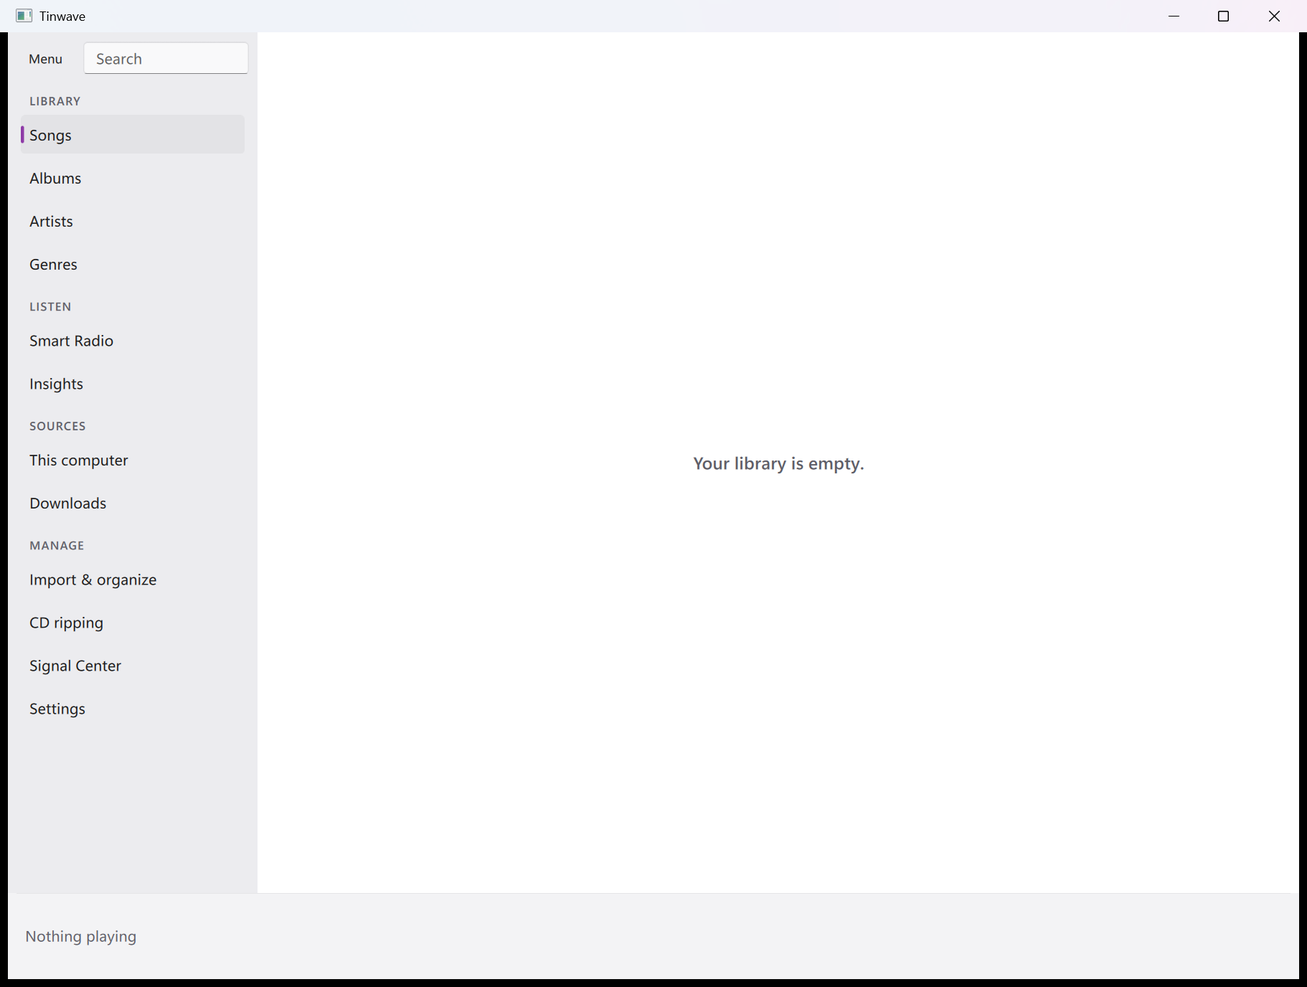
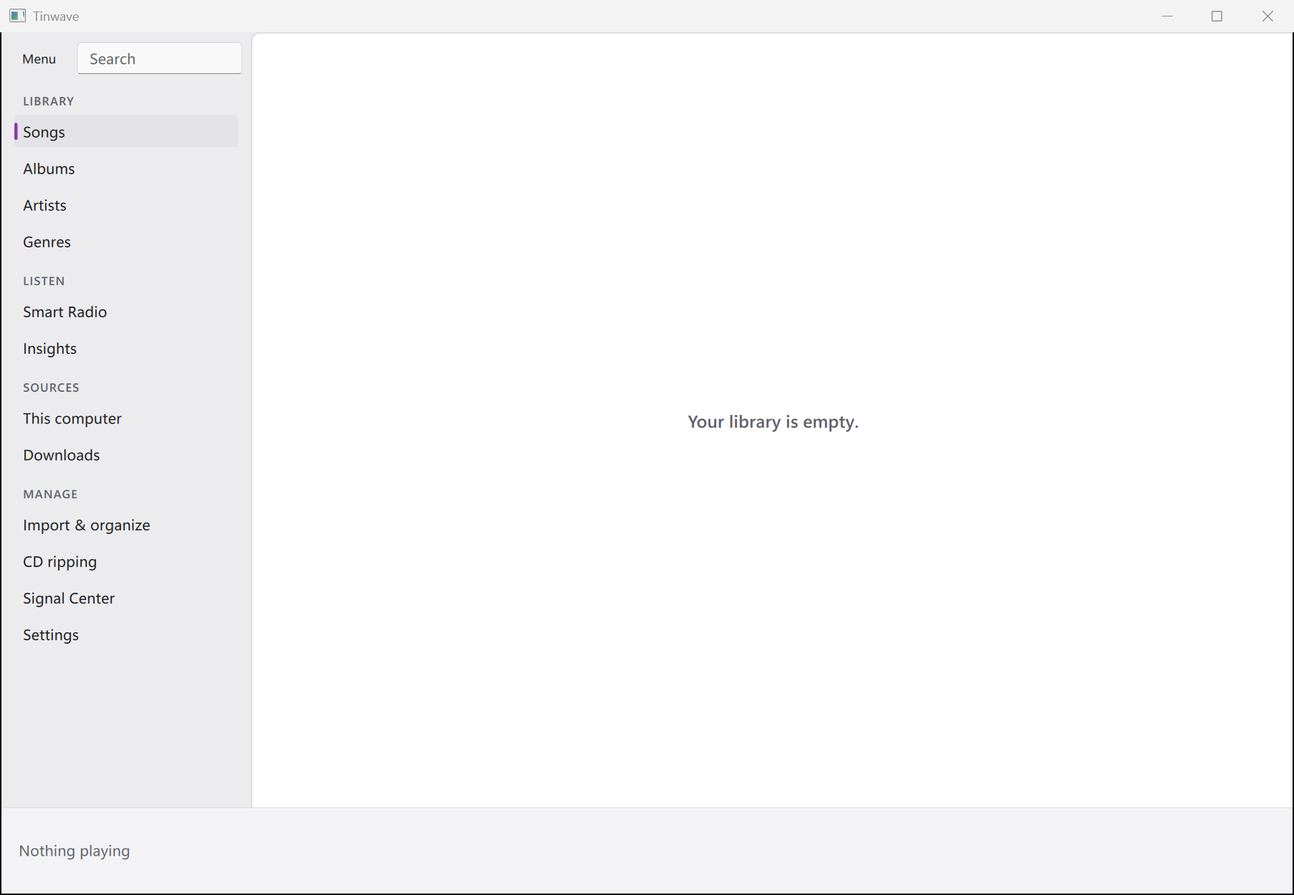
T-0035 done (lead fix 481582b, merge 11bc7e1); ADR 0007 hexes superseded; screenshots refreshed; T-0034 round 2; P-0137, P-0138; T-0047

Changed region(s): [[0.0, 0.0, 1.0, 1.0], [0.5277, 0.4571, 0.6829, 0.4876], [0.9313, 0.0, 0.9623, 0.0305]]

diff --git a/work/reports/T-0034/review-1.md b/work/reports/T-0034/review-1.md
@@ -1,0 +1,47 @@
+REVIEW T-0034 (round 1)
+verdict: CHANGES_REQUESTED
+checks (run by reviewer): fmt pass; clippy pass (`--workspace --all-targets -D warnings`); tests: first full `cargo nextest run --workspace` gave 469 passed / 1 FAILED (`controller_thread::concurrent_callers_lose_nothing_and_the_engine_stays_consistent`, controller_thread.rs:322, `left: 0, right: 1`, 21.9 s), then 4 more full runs gave 470/470. The controller_thread, controller_signals and controller_sessions binaries passed 8 of 8 runs on their own. The stress test alone passed 168 of 168 (up to 32 processes at once). deny pass (advisories, bans, licenses, sources ok).
+
+acceptance criteria:
+- [ ] Failed open ⇒ no PlayStarted; normal play ⇒ exactly one PlayStarted, when heard — problem: covered for open failures and normal plays by `a_queue_of_only_a_failing_track_leaves_no_outcome_either`, `a_failed_track_is_neither_completed_nor_skipped`, `play_started_carries_origin_input_recording_source_and_start_position`, `a_track_replaced_before_its_first_audio_is_not_a_play`. But a track that opens and then decodes zero frames still emits SessionStarted + PlayStarted + Completed (blocking finding 2).
+- [x] Initial StreamInfo observable without a device switch — verified by: `the_engine_reports_how_each_stream_was_opened_the_first_one_too` (controller_signals.rs, `OutputOpened{None, initial}` before any switch), `the_stream_the_engine_started_with_is_the_starting_mode_not_a_toggle`, and the Harness check in tests/common/mod.rs:202.
+- [ ] Pairing, rt_alloc, controller suites, concurrent stress green; fmt, clippy, tests, deny — problem: the concurrent stress test failed in 1 of my 5 full-workspace runs (blocking finding 1). pairing, rt_alloc, output_rt_alloc and controller_rt_alloc are green and unchanged.
+- [x] P-0128 `initial_repeat` seeds repeat and reported_repeat — verified by: mapper.rs:163-164 and `a_restored_repeat_mode_is_the_starting_state_not_a_change`.
+- [x] Deferred RepeatModeChanged documented — verified by: mapper.rs:347-353 and signal-catalog.md §8 (session-start time, recording current then).
+- [x] ManuallyDrop nit — verified by: controller_thread.rs:358-360, now a plain destructure.
+
+blocking findings:
+1. crates/tinwave-playback/tests/controller_thread.rs:287-298 and :109-123 — the stress test is flaky, and its wait loop hides the cause.
+   - What happens: `hear()` renders exactly 4,800 "real" frames and then stops rendering. The loop then waits up to 30,000 × 200 µs for a PlayStarted. It never asserts that one arrived; it just falls through to `assert_eq!(session_starts, 1)`.
+   - Observed: 21.9 s run, `session_starts == 0`. The loop timed out, so no PlayStarted was ever emitted, before or after `hear()`.
+   - Why it matters: with this ticket the first PositionMark decides whether a heard play gets PlayStarted, Skipped and Completed at all. "A heard play never got its mark" therefore has to be ruled out, not retried away. I could not reproduce it alone (168/168), so the root cause is open. It may be a test-timing problem or a real case where marks stop.
+   - Fix: (a) make the wait render and poll until PlayStarted is seen, and panic on timeout with `status()`, `position()`, `command_pending()` and `sink_stats()` in the message; (b) rerun the full workspace until it reproduces and find the cause; (c) apply the same "render until seen" pattern in `dropping_the_handle_ends_the_session`, which uses the same fixed-count `hear()`.
+2. crates/tinwave-playback/src/controller/mapper.rs:482-491 — the new "Finished ⇒ heard" path has no guard.
+   - Mechanism: a file that opens but decodes no audio still ends in `TrackLeft{Finished}` with frame == start frame. Two ways: `next_chunk` returns `Ok(false)` at the first packet (an `UnexpectedEof` — truncated download or rip — or an empty data chunk, reader.rs:215-217); or every packet is a `DecodeError`, so all are skipped (reader.rs:227-229) and decoder.rs:390 calls `finish_item`, not failed.
+   - Effect: the mapper emits SessionStarted + PlayStarted + Completed for a track nobody heard — the case the ticket set out to remove — and the Completed teaches taste a false positive.
+   - Fix: treat an unheard `Finished` as a play only if audio actually advanced. Have the mapper record the start frame of the current stream (TrackStarted frame, updated on `Seeked.to_frame`) and require leave frame > that frame. Add a test with a header-only or zero-frame WAV that expects no signals.
+3. Hard-rule check (CLAUDE.md, "every user interaction that changes playback … MUST emit a signal") — mapper.rs:564-566 with `send` at :694, and the test `a_play_paused_before_it_is_heard_starts_when_it_is` (asserts empty after Pause(Mouse)/Resume(Mouse)).
+   - What is lost: for an unheard play with no session open, Pause, Resume and Seek (and Volume) are now dropped. On main they were recorded, because TrackStarted opened the session.
+   - Concrete case: at launch the shell restores the last track paused at its saved position. The listener drags the seek bar, then presses Play on a media key. Seek and Resume both emit nothing; the PlayStarted that follows carries the load's input (e.g. Auto), not MediaKey. This is the most common way a desktop session starts, it is a regression, and the lead's acceptance covered only Replaced/Stopped outcomes.
+   - Fix: when Paused/Resumed/Seeked/VolumeChanged arrives with a user `cx.input` for an unheard play and no session is open, call `ensure_session(at, pending.origin)` first, then emit as before. This does not bring back sessions made only of failed tracks: the decoder opens and fills while paused, so an open failure is reported as `TrackLeft{Failed}` before the user can resume. Update that test and the "can precede its PlayStarted" docs (mod.rs:62-64, catalog §8).
+   - Full list of interactions that now emit no signal: (i) Select/Next on a track that fails before audio — ticket mandates, not blocking; (ii) Next/Select/Previous replacing a track never heard or within its first ~100 ms — lead accepted (P-0136), navigation, not blocking; (iii) Stop of an unheard play — already silent on main before the last 3 %, not new; (iv) Pause/Resume/Seek/Volume of an unheard play outside a session — new, blocking.
+
+design check: n/a (no UI)
+
+non-blocking findings:
+- crates/tinwave-playback/src/controller/sink.rs:13-16 — docs say "only the newest [mark] is ever useful", and overflow removes the oldest mark. The mapper now relies on the first mark of each track: if coalescing ever dropped a track's only mark before a Replaced, that heard play's PlayStarted and Skipped would vanish. Unreachable today (the controller drains after every `engine.poll`). Update the docs, or never coalesce away a mark whose item differs from the next mark's.
+- crates/tinwave-playback/src/engine.rs:503-521 — a gapless Continuation does not reset `grid_base`/`last_grid`, so an auto-advanced track's first mark (and its PlayStarted) can come 0–100 ms into it, not after 100 ms as the catalog row, mod.rs:56-57 and mapper.rs:436 say. Fix the wording ("the first position mark that names it").
+- crates/tinwave-playback/src/controller/mapper.rs:426-432 — a Previous to a track that then fails opens a session with `tracks = 0` (SessionStarted + PreviousPressed only), contradicting mod.rs:72-73 and catalog §8 "a track that fails to open does not open one". Document the exception or defer the session.
+- crates/tinwave-playback/tests/controller_random.rs:166-172 — the pairing walk never asserts that any PlayStarted happened, and does not catch a second PlayStarted before an outcome. Add `assert!(plays > 0)` and "no PlayStarted while a play is open without an outcome".
+
+proposals:
+- P: Assert "every heard play gets exactly one PlayStarted" in the random walk (render-count based) | why: the first mark is now load-bearing for all T0 play signals | size: S
+
+notes for lead:
+- Verified intact: T-0024 guarantees (non-joining close test still detects a joining teardown; SessionEnded on drop still covered; 29:59/30:00 tests kept and extended; preferences still reported after the next SessionStarted, assertions not weakened; `initial_repeat` silent). `OutputOpened` is emitted on the control thread from `Engine::start` into the pre-allocated BoundedSink, not on the audio callback; rt_alloc binaries green. No consumers of `initial_mode` or `EventKind` outside the crate.
+- Root cause of finding 1 is unknown. Have the builder reproduce it before merge rather than just hardening the wait.
+
+---
+Lead (2026-11-02): all three blocking findings stand; fixes as the reviewer proposes (finding 3: open the session on a
+user Pause/Resume/Seek/Volume of an unheard play). Round 2 also takes the four non-blocking items and the proposal
+(P-0137 → merged into T-0034 round 2). Finding 1 needs a root cause, not only a hardened wait.

diff --git a/work/BOARD.md b/work/BOARD.md
@@ -22,21 +22,23 @@ _Maintained by the lead. Last updated: 2026-11-02._
 ## In progress
 | Ticket | Owner | Branch / worktree |
 |---|---|---|
+| [T-0034](tickets/T-0034-playstarted-when-heard.md) PlayStarted when heard; initial StreamInfo; initial_repeat | tw-builder r2 — CHANGES_REQUESTED: stress flake root cause, zero-frame Finished, unheard pause/seek outside a session | `t/T-0034-playstarted-when-heard` · `D:\dev\Tinwave-worktrees\T-0034-playstarted-when-heard` |
+| [T-0047](tickets/T-0047-storage-test-time-budget.md) storage_growth speed check robust to machine load | tw-builder r1 | `t/T-0047-storage-test-time-budget` · `D:\dev\Tinwave-worktrees\T-0047-storage-test-time-budget` |
 | [T-0044](tickets/T-0044-artwork-image-provider.md) Artwork image provider: T-0041 pattern, RAII UI owner (P0) | tw-builder r1 | `t/T-0044-artwork-image-provider` · `D:\dev\Tinwave-worktrees\T-0044-artwork-image-provider` |
 
 Worktrees are made by the lead with `git worktree add` under `D:\dev\Tinwave-worktrees\` (the Agent tool's built-in
 worktree isolation fails on this machine: the `^{commit}` ref loses its braces).
 
 ## In review
-| Ticket | Reviewer | Branch / worktree |
-|---|---|---|
-| [T-0035](tickets/T-0035-design-token-fixes.md) Design-system §3 token fixes + T-0040 shell tokens | tw-reviewer r2 (build-2: no hover over selected, checkAccents, window clamp) | `t/T-0035-design-token-fixes` @ 4683dd8 · `D:\dev\Tinwave-worktrees\T-0035-design-token-fixes` |
-| [T-0034](tickets/T-0034-playstarted-when-heard.md) PlayStarted when heard; initial StreamInfo; initial_repeat | tw-reviewer r1 (build-1: heard-play sessions, OutputOpened) | `t/T-0034-playstarted-when-heard` @ 8255b43 · `D:\dev\Tinwave-worktrees\T-0034-playstarted-when-heard` |
+_none_
 
 ## Ready (dispatch order)
 | Ticket | Type | Size | Scope | Note |
 |---|---|---|---|---|
-| [T-0043](tickets/T-0043-icon-pipeline.md) Icon pipeline: Lucide SVGs, TwIcon, capture helper | feature | M | desktop qml/Tw, icons, tools, build.rs, Sidebar.qml | after T-0035 (Sidebar.qml) and T-0044 (build.rs) |
+| [T-0042](tickets/T-0042-windows-packaging-notices.md) Windows packaging + Qt THIRD-PARTY-NOTICES | feature | M | desktop packaging/ | next free slot |
+| [T-0046](tickets/T-0046-canvas-token-sync.md) Sync canvas token sheets with §3.1 (P2) | chore | S | docs/design/canvas | free |
+| [T-0045](tickets/T-0045-contrast-selfcheck-test.md) Theme.selfCheck as a committed test (P2) | feature | S | desktop tests/ | tests/ overlaps T-0044 → after it |
+| [T-0043](tickets/T-0043-icon-pipeline.md) Icon pipeline: Lucide SVGs, TwIcon, capture helper | feature | M | desktop qml/Tw, icons, tools, build.rs, Sidebar.qml | after T-0044 (build.rs) |
 | [T-0036](tickets/T-0036-windows-platform-bridge.md) Windows platform bridge (motion, contrast, Mica, dark menus) | feature | M | desktop src/platform | wiring touches src/app → after T-0044 |
 | [T-0042](tickets/T-0042-windows-packaging-notices.md) Windows packaging + Qt THIRD-PARTY-NOTICES | feature | M | desktop packaging/ | free now (next agent slot) |
 | [T-0026](tickets/T-0026-signalsmith-wrapper.md) Vendored Signalsmith wrapper | feature | S | new crate / playback | after T-0034 if it touches tinwave-playback |
@@ -60,8 +62,6 @@ overlap (work/README.md); the branch merging second merges main first.
 |---|---|
 | [T-0027](tickets/T-0027-rate-control-engine.md) Rate control in the engine (E-01) | T-0026 |
 | [T-0018](tickets/T-0018-gapless-metadata-scanner.md) Gapless metadata in scanner (E-01) | T-0016, scanner ticket |
-| [T-0045](tickets/T-0045-contrast-selfcheck-test.md) Theme.selfCheck as a committed test (P2) | T-0035 |
-| [T-0046](tickets/T-0046-canvas-token-sync.md) Sync canvas token sheets with §3.1 (P2) | T-0035 |
 | [T-0010](tickets/T-0010-spike-jellyfin.md) Spike: Jellyfin | — (P2) |
 
 ## Design gaps to close before E-01 screen tickets
@@ -97,6 +97,7 @@ Qt floor 6.10, memory = private working set → [ADR 0007](../docs/adr/0007-nati
 | [T-0015](tickets/T-0015-workspace-deps-tidy.md) Tidy: deps, sealed CryptoRng, .bat/.cmd, InputSource, seek rule | 85c7012 | build-1, review-1 (approve) |
 | [T-0016](tickets/T-0016-playback-engine-core.md) Playback engine core | b150fe6 | build-1/2, review-1/2 (changes); merged per D-0005, fixes in T-0028 |
 | [T-0014](tickets/T-0014-windows-volume-device-provider.md) Windows output-device + system-volume providers | f831e27 | build-1/2, review-1 (changes), review-2 (approve) |
+| [T-0035](tickets/T-0035-design-token-fixes.md) Design-system §3 token fixes + shell tokens | 11bc7e1 | build-1/2, review-1/2 (changes); round-3 fix by lead 481582b |
 | [T-0024](tickets/T-0024-playback-controller.md) Playback controller → T0 signals, sessions | f1abd7b | build-1/1b/2, review-1 (changes), review-2 (approve); 464 tests on main |
 | [T-0040](tickets/T-0040-desktop-skeleton.md) Desktop skeleton: CXX-Qt crate, Fluent shell, Theme | 511c121 | build-1/2, review-1 (changes), review-2 (approve); 312 ms warm, 39 MB PWS |
 | [T-0032](tickets/T-0032-settings-followups.md) Signal settings follow-ups | 48b97ad | review-1 APPROVE |
@@ -113,5 +114,5 @@ Qt floor 6.10, memory = private working set → [ADR 0007](../docs/adr/0007-nati
 | [T-0028](tickets/T-0028-engine-pairing-fixes.md) Engine pairing fixes + property test | c0bfd2a | build-1, review-1 (approve); follow-ups T-0030 |
 | [T-0009](tickets/T-0009-spike-time-stretch.md) Spike: time-stretch | 176c82e | spike-1 → ADR 0006, T-0026, T-0027 |
 
-Proposals P-0001..P-0136 all have outcomes (see work/proposals/). Parked: P-0003/P-0033/P-0037/P-0044/P-0047/P-0065/P-0066/P-0076 (CI —
+Proposals P-0001..P-0138 all have outcomes (see work/proposals/). Parked: P-0003/P-0033/P-0037/P-0044/P-0047/P-0065/P-0066/P-0076 (CI —
 needs a remote), P-0016 (worktree EOL refresh), P-0027 (IAudioClock interpolation), P-0054 (rate crossfade), P-0057 (silence for corrupt packets), P-0058 (comment), P-0063 (provider watchdog), P-0078 (T-0014 nits), P-0083 (loopback gapless test), P-0094 (PlayStarted volume, E-04), P-0130 (textFaint/textMuted step — PO look pass), P-0135 (StreamInfo to the shell), P-0136 (pre-hear skips, Phase 7).

diff --git a/work/reports/T-0035/review-2.md b/work/reports/T-0035/review-2.md
@@ -1,0 +1,46 @@
+REVIEW T-0035 (round 2)
+verdict: CHANGES_REQUESTED
+checks (run by reviewer): fmt pass (exit 0), clippy pass (`-D warnings`, exit 0), tests pass (nextest: 402 run, 402 passed, 6 skipped), deny pass (advisories, bans, licenses and sources ok)
+
+acceptance criteria:
+- [x] The self-test passes for 15 accents × 2 schemes on every surface (≥ 4.5:1 text, ≥ 3:1 UI glyphs) — verified by: my harness outside the worktree (copy of the branch Theme.qml), run with `qml -I . check.qml`:
+  - `Theme.checkAccents` deep-equals the T-0011 list (n=15).
+  - `Theme.selfCheck()` with no arguments printed `rows=30 failures=0`.
+  - `selfCheck(explicit list)` gave identical rows.
+- [x] design-system.md §3 updated; changed look noted for the PO — verified by: diff 727589c..4683dd8.
+  - §3.1 contrast rule and the §5 states line both say `hover` is never composited over `selected`, and the `surfacesOf` comment (Theme.qml:92-93) says the same. This closes the round-1 blocking finding per the lead's option (a).
+  - §3.1 lists the 15 hexes and the no-argument `selfCheck()`.
+  - No token values changed, so there are no new look changes.
+- [x] P-0116 shell tokens — unchanged from round 1. Main.qml now goes through `firstStartWidth/Height` (see the blocking finding).
+
+blocking findings:
+- apps/tinwave-desktop/qml/Main.qml:15-16 — the first-start clamp is a live binding (`width: Theme.firstStartWidth(Screen.desktopAvailableWidth)`), so it is not evaluated only once at first start.
+  - Why it fires: a user resize does not break a QML binding on Window `width`/`height`. Whenever `Screen.desktopGeometryChanged` fires, the binding re-evaluates and resizes the window back to the clamped default. That happens on monitor attach or detach, a resolution or scale change, or the window's screen changing.
+  - Failure scenario: the user enlarges Tinwave to 1600 × 1000, then docks the laptop or plugs in a monitor, and the window jumps back to 1200 × 800. It would also fight the planned "last size is remembered" restore.
+  - Proof: a probe with the same binding shape, fed through a property (scratchpad\rev35r2\rebind.qml, external resize via Win32 SetWindowPos in resize.ps1). After the external resize the window was 2085 × 1363; after the available-size input changed it was 1200 × 800.
+  - Round 1 bound constant tokens, so this was introduced in round 2.
+  - Suggested fix (S): keep `width: Theme.windowDefaultWidth` / `height: Theme.windowDefaultHeight` (or no binding), and assign the clamped size imperatively once in the existing `Component.onCompleted`. Re-check that the window still opens at 1200 × 800 here.
+
+design check: pass, apart from the blocking finding above, which is behavioural rather than visual.
+- Token grep in qml/ outside Theme/ clean; only `spacing: 0` (Main.qml:38) and `currentIndex: 0` (Sidebar.qml:63).
+- Focus-ring comment (Theme.qml:323) matches §5 (`accentText`).
+- Clamp maths correct, never below the minimum: 2560×1392 → 1200×800; 1366×720 → 1200×672; 1280×672 → 1200×624; 1093×566 → 1093×560 (minimum height; by design); 0×0 → 880×560.
+- The real app opens normally on this machine: client area 1200×800 logical, window 1215×837, title "Tinwave".
+- Every process started was killed. No Windows settings were changed.
+
+non-blocking findings:
+- Main.qml:15-16 and design-system.md §3.3 — `Screen.desktopAvailableWidth/Height` is the whole virtual desktop, not the window's screen. A 1366×768 laptop next to a 1080p monitor gets no height clamp. QML exposes no per-screen available geometry; say "virtual desktop" in §3.3 or accept the limitation.
+- design-system.md §3.3 — "clamped to the available screen minus `windowChromeAllowance` 48" reads as if both dimensions subtract 48; only the height does.
+- build-2.md says 1366×768 @ 100 % gets "about 1200 x 720"; with a 48 px taskbar it is 1200×672 client. Behaviour fine; handoff number off.
+
+proposals:
+- none new (P-0133 canvas sync is already tracked)
+
+notes for lead: scope clean (Theme.qml, Main.qml, Sidebar.qml, design-system.md only). A round 3 is the one-line change from a binding to a one-time assignment; check the window opens at 1200×800 again after it. Harness and output: scratchpad\rev35r2 (check.qml, err.txt, rebind.qml, resize.ps1, err2.txt).
+
+---
+Lead (2026-11-02): round 2 failed on a two-line fix exactly as specified → the lead took it over (work/README.md:
+after round 2, split / take over / escalate). Main.qml binds the constant default tokens and assigns
+`firstStartWidth/Height(Screen.desktopAvailable*)` once in `Component.onCompleted`; §3.3 now says "clamped once at start
+to the available virtual-desktop size, the height also minus `windowChromeAllowance`". Verified: desktop tests 4 unit +
+2 startup pass; launched app client area 1200 × 800 logical, no QML warnings, process killed.

diff --git a/work/tickets/T-0047-storage-test-time-budget.md b/work/tickets/T-0047-storage-test-time-budget.md
@@ -1,0 +1,38 @@
+---
+id: T-0047
+title: storage_growth speed check must not fail just because the machine is busy
+type: chore
+epic: E-00
+status: in_progress
+priority: P1
+size: S
+depends_on: []
+scope:
+  - crates/tinwave-db/tests/storage_growth.rs
+  - docs/rules/storage-budget.md     # only if the speed rule's wording changes
+owner: tw-builder
+branch: t/T-0047-storage-test-time-budget
+review_round: 1
+created_by: from P-0138
+---
+
+## Context
+`ninety_days_of_a_heavy_listener_fit_the_hot_window_and_the_five_year_budget` (storage_growth.rs:288) asserts the
+90-day simulation finishes in < 60 s of wall clock. Idle it takes ~32 s; on 2026-11-02 it took 70 s and 97 s while other
+agents ran test suites in parallel (CPU 100 %), failing the main gate although every size was within budget.
+The speed check exists to catch an accidental slowdown of the writer path, not machine load.
+
+## Scope
+- Replace the wall-clock assertion with a load-independent measure (e.g. the test thread's and writer thread's CPU
+  time, or per-transaction cost), or split the speed check into its own clearly named test with a budget derived from
+  a calibration loop run in the same process. No change to the size assertions.
+- Keep the printed report (sizes, extrapolation) unchanged.
+
+## Acceptance criteria
+- [ ] The test passes with the machine saturated (e.g. run alongside 2 copies of the full workspace nextest) — numbers
+      in the handoff.
+- [ ] A deliberate 3× slowdown of the writer path (temporary mutation, reverted) still fails the speed check.
+- [ ] fmt, clippy -D warnings, tests, deny pass.
+
+## Signals & storage
+None (test only).

diff --git a/docs/adr/0007-native-style-findings.md b/docs/adr/0007-native-style-findings.md
@@ -88,6 +88,10 @@ design-system.md. Nothing found requires abandoning native-first.**
 5. **Spec bugs found by the self-test (so "all text pairs >= 4.5:1 (checked)" is currently false):** light `textFaint`
    `#6E6E77` is 4.28:1 on `sidebar` and 4.39:1 on the Tin Teal `selected` tint; light `srcDownload` `#2E7D46` is
    4.30:1 on `sidebar`. Suggested: `textFaint` `#6A6A73` (min 4.54), `srcDownload` `#2B7842` (min 4.60).
+   *Superseded by T-0035 (2026-11-02):* the contrast rule now also counts the `hover` overlay on every fixed surface
+   (never over `selected`, which shows alone). That needs light `textFaint` `#64646D`, `srcDownload` `#2A7240`,
+   `warning` `#925700` and dark `textFaint` `#94949C`; design-system §3.1 is the source of truth and
+   `Theme.selfCheck()` the check.
 6. **`selected`** percentages do not match the hexes: `#E6F1F2` is about 10 % of Tin Teal over white (spec says 12 %),
    `#1B2B2D` is about 12 % of `#5CC6CF` over `#161618` (spec says 18 %). The prototype uses 10 %/12 %; pick one rule.
 7. **Alpha hex trap.** `hover` `#0000000A` and `separator` `#0000001A` are CSS `#RRGGBBAA`; QML parses `#AARRGGBB`, so

diff --git a/work/tickets/T-0035-design-token-fixes.md b/work/tickets/T-0035-design-token-fixes.md
@@ -3,7 +3,7 @@ id: T-0035
 title: Design-system §3 token fixes from T-0011 (accentFill, onAccent, contrast, selected, alpha hex)
 type: feature
 epic: E-01
-status: in_review
+status: done
 priority: P1
 size: S
 depends_on: [T-0040]
@@ -42,3 +42,9 @@ Also add the tokens the shell had to work around: hairline width, default first-
 corner radius (canvas rounded top-left) and the canvas sidebar row height (34) vs native ItemDelegate (40) — decide in
 design-system §3/§4 and expose in Theme.qml; then replace the workarounds in apps/tinwave-desktop/qml/Main.qml
 (scope extends to Main.qml/Sidebar.qml for those substitutions only).
+
+## Outcome
+2026-11-02: merged 11bc7e1. Round 2 failed on a two-line binding fix; the lead took it over (481582b). Gates on main:
+fmt, clippy, deny green; nextest 463/464 — the one failure was storage_growth's 60 s wall-clock budget (97 s at 100 % CPU
+from parallel agent runs; 32 s idle earlier; sizes within budget), unrelated to this QML/doc change → T-0047.
+ADR 0007 hexes annotated as superseded; screenshots refreshed.

diff --git a/work/tickets/T-0034-playstarted-when-heard.md b/work/tickets/T-0034-playstarted-when-heard.md
@@ -3,7 +3,7 @@ id: T-0034
 title: PlayStarted only when audio is heard; engine publishes the initial StreamInfo
 type: feature
 epic: E-01
-status: in_review
+status: in_progress
 priority: P1
 size: M
 depends_on: [T-0024]
@@ -11,7 +11,7 @@ scope:
   - crates/tinwave-playback/
 owner: tw-builder
 branch: t/T-0034-playstarted-when-heard
-review_round: 1
+review_round: 2
 created_by: from P-0096, P-0097, P-0128
 ---
 

diff --git a/work/proposals/P-0138-storage-test-time-budget.md b/work/proposals/P-0138-storage-test-time-budget.md
@@ -1,0 +1,9 @@
+---
+id: P-0138
+title: Make the storage-growth speed budget robust to a loaded machine
+from: lead (gate run after T-0035 merge)
+date: 2026-11-02
+size: S
+outcome: accepted → T-0047
+---
+storage_growth.rs:288 asserts wall-clock < 60 s; it took 97 s at 100 % CPU (parallel agent test runs) vs 32 s idle. Sizes were within budget.

diff --git a/work/proposals/P-0137-heard-play-walk-assert.md b/work/proposals/P-0137-heard-play-walk-assert.md
@@ -1,0 +1,9 @@
+---
+id: P-0137
+title: Random walk asserts every heard play gets exactly one PlayStarted
+from: T-0034 review-1
+date: 2026-11-02
+size: S
+outcome: merged → T-0034 round 2
+---
+The first position mark is now load-bearing for all T0 play signals.

diff --git a/work/tickets/T-0046-canvas-token-sync.md b/work/tickets/T-0046-canvas-token-sync.md
@@ -3,7 +3,7 @@ id: T-0046
 title: Sync the design canvas token sheets with design-system §3.1 (post-T-0035 values)
 type: chore
 epic: E-01
-status: backlog
+status: ready
 priority: P2
 size: S
 depends_on: [T-0035]

diff --git a/work/tickets/T-0045-contrast-selfcheck-test.md b/work/tickets/T-0045-contrast-selfcheck-test.md
@@ -3,7 +3,7 @@ id: T-0045
 title: Run Theme.selfCheck() as a committed test (15 accents × 2 schemes)
 type: feature
 epic: E-01
-status: backlog
+status: ready
 priority: P2
 size: S
 depends_on: [T-0035]
